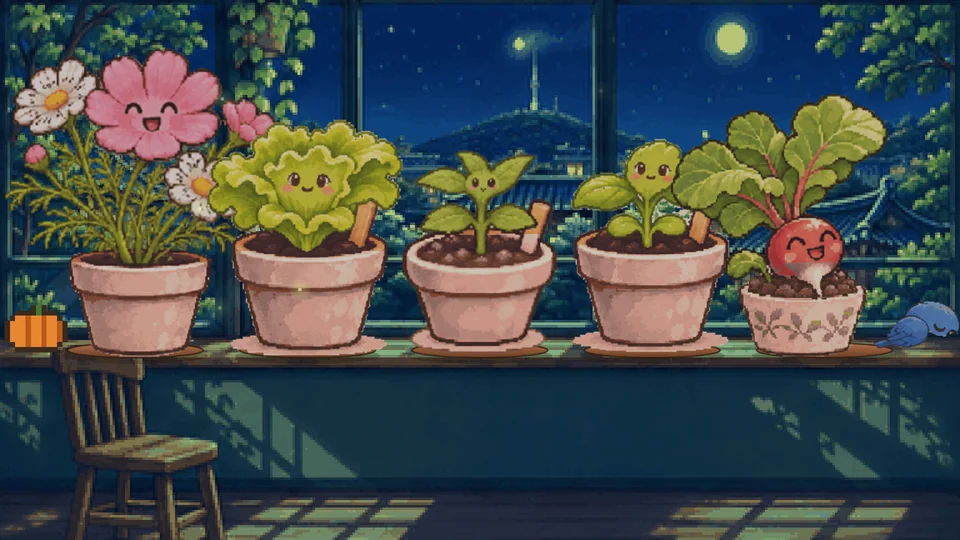
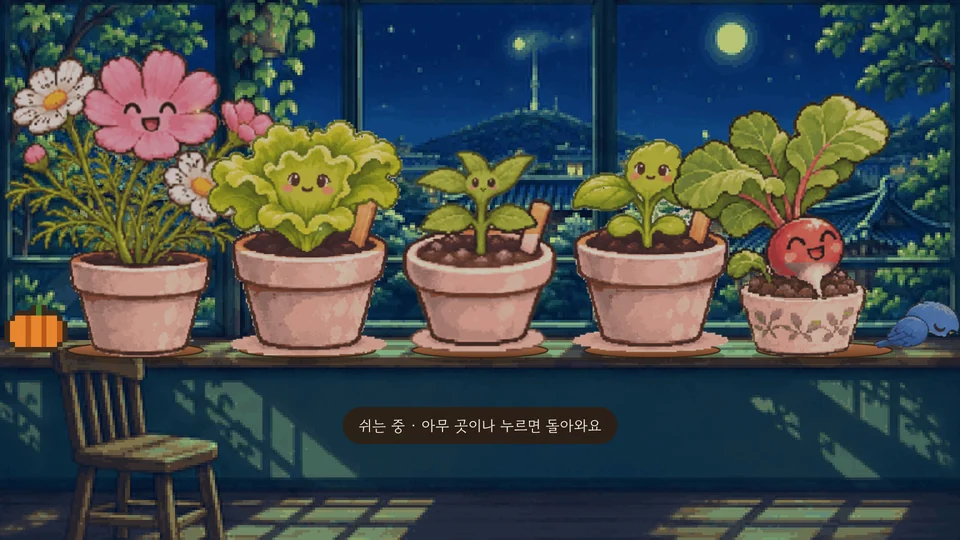
0.11.0: 씨앗 100종 자유 선택 · 장소 58곳 반영, 광고 안내(행운 잎 주머니) 갱신
Claude-Session: https://claude.ai/code/session_01Fwm1RHwY45EjpCCGqqCbgZ

diff --git a/index.html b/index.html
@@ -57,13 +57,13 @@
     <div class="card"><img src="img/01_garden_day.webp" alt="낮의 창가 정원" loading="lazy"><div><b>심고, 물 주고, 쓰다듬고</b><p>빈 화분에 씨앗을 고르고 물만 주면 알아서 자라요. 첫 씨앗은 몇 분 만에! 식물이 죽는 일은 없어요.</p></div></div>
     <div class="card"><img src="img/02_complete.webp" alt="식물이 다 자란 축하 화면" loading="lazy"><div><b>다 자라면 축하해요</b><p>빠른 식물은 반나절, 꽃과 나무는 일주일쯤. 다 키우면 잎과 새 씨앗을 받아요.</p></div></div>
     <div class="card"><img src="img/03_dex.webp" alt="나만의 식물 도감" loading="lazy"><div><b>나만의 식물 도감 100종</b><p>채소·허브·꽃·관엽·다육·열매와 나무. 그림자 카드를 하나씩 채워 가는 모으는 재미.</p></div></div>
-    <div class="card"><img src="img/04_seed_pick.webp" alt="씨앗 고르기" loading="lazy"><div><b>오늘은 뭘 심을까</b><p>씨앗 가게와 씨앗 상자에서 새 식물을 만나고, 이름도 지어 줘요.</p></div></div>
+    <div class="card"><img src="img/04_seed_pick.webp" alt="씨앗 고르기" loading="lazy"><div><b>오늘은 뭘 심을까</b><p>식물 100종 모두 처음부터 마음대로 골라 심고, 이름도 지어 줘요.</p></div></div>
     <div class="card"><img src="img/05_rewards.webp" alt="오늘의 보상: 출석 도장과 미션" loading="lazy"><div><b>매일 작은 즐거움</b><p>출석 도장, 오늘의 미션, 빵집 이웃의 편지, 명절 인사가 기다려요.</p></div></div>
     <div class="card"><img src="img/06_night_rest.webp" alt="밤의 창가 정원" loading="lazy"><div><b>쉬어 가는 밤 정원</b><p>‘쉬기’를 누르면 정원만 가만히. 정원 사진과 움직이는 배경화면으로도 볼 수 있어요.</p></div></div>
   </div>
 
   <h2 id="ads">광고 안내</h2>
-  <p class="note">광고는 보고 싶을 때만 누르는 보상형 광고뿐이에요(보상 2배·씨앗 상자·단비·꾸미기 소품·새 친구 7일). 갑자기 뜨는 광고나 배너는 없고, 광고를 보지 않아도 심기·물 주기·도감 모으기·장소 열기를 모두 할 수 있어요.</p>
+  <p class="note">광고는 보고 싶을 때만 누르는 보상형 광고뿐이에요(보상 2배·행운 잎 주머니·단비·꾸미기 소품·새 친구 7일). 갑자기 뜨는 광고나 배너는 없고, 광고를 보지 않아도 심기·물 주기·도감 모으기·장소 열기를 모두 할 수 있어요.</p>
 
   <h2>만든 사람</h2>
   <div class="maker"><img src="img/signature.png" alt="푸렁이(대현)의 시그니처 캐릭터" onerror="this.remove()"><div><b>푸렁이(대현)</b><p style="margin:4px 0 0;color:var(--sub)">기획 · 제작</p></div></div>

diff --git a/privacy.html b/privacy.html
@@ -57,7 +57,7 @@
 ④ 앱은 위치 정보를 쓰지 않습니다. 창밖의 맑음·비·눈은 게임 안에서 날짜와 계절에 따라 정해지는 연출이며, 바깥 날씨 정보를 받아 오지 않습니다.</p>
 
 <h2>제4조 (광고: Google AdMob)</h2>
-<p>① 앱은 무료이며, Google LLC의 AdMob(Google 모바일 광고 SDK)으로 광고를 보여 줍니다. 광고는 이용자가 원할 때 누르는 <b>보상형 광고</b>(보상 2배·씨앗 상자·단비·꾸미기 소품·주인공 7일)뿐이며, 전면 광고와 배너 광고는 없습니다.<br>
+<p>① 앱은 무료이며, Google LLC의 AdMob(Google 모바일 광고 SDK)으로 광고를 보여 줍니다. 광고는 이용자가 원할 때 누르는 <b>보상형 광고</b>(보상 2배·행운 잎 주머니·단비·꾸미기 소품·주인공 7일)뿐이며, 전면 광고와 배너 광고는 없습니다.<br>
 ② 광고를 불러오고 보여 줄 때 Google 모바일 광고 SDK는 아래 정보를 자동으로 수집해 Google로 보냅니다(Google이 공개한 자료 기준).</p>
 <ul>
   <li>기기 식별자: 광고 ID, 앱 세트 ID 등</li>
